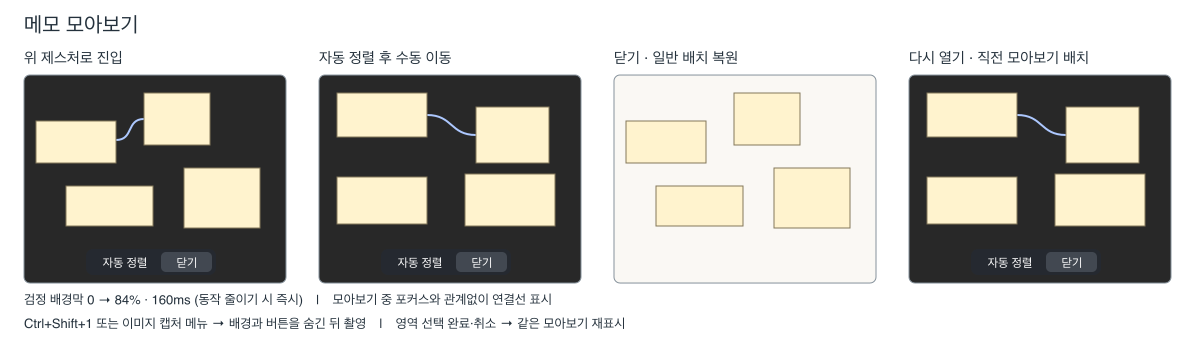
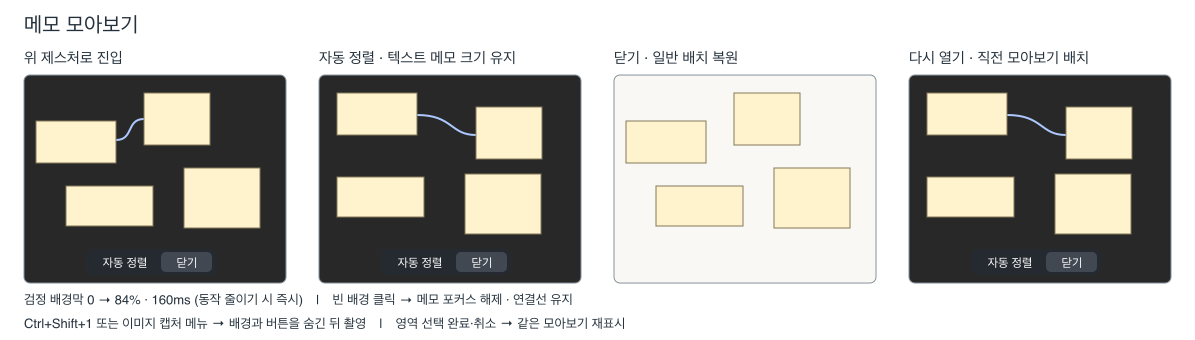
모아보기 자동 정렬에서 메모 크기를 유지하고 배경 클릭 시 포커스 해제

diff --git a/ui/memo-backdrop.js b/ui/memo-backdrop.js
@@ -1,0 +1,7 @@
+document.addEventListener('pointerdown', (event) => {
+  if (event.button !== 0 || !document.documentElement.hasAttribute('data-visible')) return;
+  window.__TAURI__.core.invoke('overview_action', {
+    action: 'clearfocus',
+    generation: window.overviewGeneration,
+  }).catch(console.error);
+});

diff --git a/ui/memo-backdrop.html b/ui/memo-backdrop.html
@@ -3,4 +3,5 @@
 <meta charset="utf-8">
 <title>메모 배경</title>
 <link rel="stylesheet" href="memo-overview.css">
+<script defer src="memo-backdrop.js"></script>
 </html>

diff --git a/src-tauri/src/layout.rs b/src-tauri/src/layout.rs
@@ -442,6 +442,24 @@ pub fn undo_arrangement(window: WebviewWindow) -> Result<(), String> {
     Ok(())
 }
 
+// Share the space evenly unless a live text window requires a larger track.
+fn grid_tracks(minima: &[i64], available: i64, gap: i64) -> Option<Vec<i64>> {
+    let mut remaining = available - gap * (minima.len() as i64 + 1);
+    if minima.iter().sum::<i64>() > remaining {
+        return None;
+    }
+    let mut sizes = minima.to_vec();
+    let mut order: Vec<_> = (0..sizes.len()).collect();
+    order.sort_unstable_by_key(|&i| std::cmp::Reverse(minima[i]));
+    let mut count = sizes.len() as i64;
+    for i in order {
+        sizes[i] = sizes[i].max(remaining / count);
+        remaining -= sizes[i];
+        count -= 1;
+    }
+    Some(sizes)
+}
+
 fn arrangement_rects(
     area: Rect,
     scale: f64,
@@ -449,6 +467,7 @@ fn arrangement_rects(
     specs: &[placement::Item],
     images: &[Option<tauri::LogicalSize<f64>>],
     viewports: &[bool],
+    fixed: &[bool],
 ) -> Result<Vec<Rect>, String> {
     if specs.is_empty() {
         return Ok(Vec::new());
@@ -460,32 +479,43 @@ fn arrangement_rects(
     let rects = if arrangement == Arrangement::Grid {
         let gap = (12.0 * scale / unit(scale)).round() as i64;
         let n = specs.len();
-        let cols = ((n as f64 * area.width as f64 / area.height as f64)
+        let preferred = ((n as f64 * area.width as f64 / area.height as f64)
             .sqrt()
             .round() as usize)
             .clamp(1, n);
-        let rows = n.div_ceil(cols);
-        let cw = (area.width - gap * (cols as i64 + 1)) / cols as i64;
-        let ch = (area.height - gap * (rows as i64 + 1)) / rows as i64;
-        if cw < (144.0 * scale / unit(scale)) as i64
-            || ch
-                < specs
-                    .iter()
-                    .enumerate()
-                    .map(|(i, s)| {
-                        if viewports[i] {
-                            s.min
-                        } else {
-                            s.min.min((48.0 * scale / unit(scale)) as i64)
-                        }
-                    })
-                    .max()
-                    .unwrap()
-        {
-            return Err("메모를 배치할 공간이 부족합니다".into());
-        }
+        let mut options: Vec<_> = (1..=n).collect();
+        options.sort_by_key(|cols| cols.abs_diff(preferred));
+        let min_width = (144.0 * scale / unit(scale)).round() as i64;
+        let min_height = (48.0 * scale / unit(scale)).round() as i64;
+        let (widths, heights) = options
+            .into_iter()
+            .find_map(|cols| {
+                let mut widths = vec![0; cols];
+                let mut heights = vec![0; n.div_ceil(cols)];
+                for (i, s) in specs.iter().enumerate() {
+                    let w = if fixed[i] { s.width } else { min_width };
+                    let h = if fixed[i] || viewports[i] {
+                        s.min
+                    } else {
+                        s.min.min(min_height)
+                    };
+                    widths[i % cols] = widths[i % cols].max(w);
+                    heights[i / cols] = heights[i / cols].max(h);
+                }
+                Some((
+                    grid_tracks(&widths, area.width, gap)?,
+                    grid_tracks(&heights, area.height, gap)?,
+                ))
+            })
+            .ok_or("메모 크기를 유지하며 배치할 공간이 부족합니다")?;
         let mut frames = Vec::new();
-        for i in 0..specs.len() {
+        let mut x = area.x + gap;
+        let mut y = area.y + gap;
+        for i in 0..n {
+            let col = i % widths.len();
+            let row = i / widths.len();
+            let cw = widths[col];
+            let ch = heights[row];
             let max_width = cw.min(specs[i].width);
             let max_height = ch.min(specs[i].max);
             let (width, height) = if let Some(img) = images[i] {
@@ -498,11 +528,16 @@ fn arrangement_rects(
                 (max_width, max_height)
             };
             frames.push(Rect {
-                x: area.x + gap + (i % cols) as i64 * (cw + gap) + (cw - width) / 2,
-                y: area.y + gap + (i / cols) as i64 * (ch + gap) + (ch - height) / 2,
+                x: x + (cw - width) / 2,
+                y: y + (ch - height) / 2,
                 width,
                 height,
             });
+            x += cw + gap;
+            if col + 1 == widths.len() {
+                x = area.x + gap;
+                y += ch + gap;
+            }
         }
         frames
     } else {
@@ -539,7 +574,7 @@ fn planned_frames(
     scale: f64,
     arrangement: Arrangement,
 ) -> Result<Vec<Rect>, String> {
-    let specs: Vec<_> = windows
+    let mut specs: Vec<_> = windows
         .iter()
         .map(|w| arrangement_item(w, area, scale))
         .collect();
@@ -551,7 +586,33 @@ fn planned_frames(
         .iter()
         .map(|w| w.label().starts_with("terminal-") || w.label().starts_with("webview-"))
         .collect();
-    arrangement_rects(area, scale, arrangement, &specs, &images, &viewports)
+    let mut fixed = vec![false; windows.len()];
+    if arrangement == Arrangement::Grid {
+        for (i, w) in windows.iter().enumerate() {
+            if crate::memo_id_from_window(w.label()).is_some()
+                && crate::sizing::image_size(w).is_none()
+            {
+                let frame = overview::current_frame(w)?;
+                let factor = scale / frame.scale / unit(scale);
+                let height = (f64::from(frame.size.height) * factor).round() as i64;
+                specs[i] = placement::Item {
+                    width: (f64::from(frame.size.width) * factor).round() as i64,
+                    min: height,
+                    max: height,
+                };
+                fixed[i] = true;
+            }
+        }
+    }
+    arrangement_rects(
+        area,
+        scale,
+        arrangement,
+        &specs,
+        &images,
+        &viewports,
+        &fixed,
+    )
 }
 
 fn move_hosts(
@@ -761,6 +822,7 @@ mod tests {
                     &specs,
                     &images,
                     &[false, false, true, true],
+                    &[false; 4],
                 )
                 .unwrap();
                 assert_eq!(rects.len(), 4);
@@ -808,7 +870,8 @@ mod tests {
                 arrangement,
                 &specs,
                 &[None; 4],
-                &[true; 4]
+                &[true; 4],
+                &[false; 4]
             )
             .is_err());
         }

diff --git a/src-tauri/src/layout/overview.rs b/src-tauri/src/layout/overview.rs
@@ -359,9 +359,16 @@ fn arrange_session(app: &tauri::AppHandle, session: &Session) -> Result<(), Stri
 }
 
 fn set_backdrop_visible(backdrop: &WebviewWindow, visible: bool) -> Result<(), String> {
+    let generation = backdrop
+        .state::<Overview>()
+        .session
+        .lock()
+        .unwrap()
+        .as_ref()
+        .map_or(0, |s| s.id);
     backdrop
         .eval(format!(
-            "document.documentElement.toggleAttribute('data-visible', {visible})"
+            "window.overviewGeneration = {generation}; document.documentElement.toggleAttribute('data-visible', {visible})"
         ))
         .map_err(error)
 }
@@ -419,6 +426,7 @@ fn close(app: &tauri::AppHandle, session: &Session, animate: bool) -> Result<(),
 #[derive(serde::Deserialize)]
 #[serde(rename_all = "lowercase")]
 pub(crate) enum Action {
+    ClearFocus,
     Arrange,
     Close,
 }
@@ -429,7 +437,12 @@ pub(crate) fn overview_action(
     action: Action,
     generation: u32,
 ) -> Result<(), String> {
-    if window.label() != CONTROLS {
+    let source = if matches!(action, Action::ClearFocus) {
+        BACKDROP
+    } else {
+        CONTROLS
+    };
+    if window.label() != source {
         return Err("메모 모아보기에서만 실행할 수 있습니다".into());
     }
     let app = window.app_handle();
@@ -444,6 +457,14 @@ pub(crate) fn overview_action(
         return Ok(());
     }
     match action {
+        Action::ClearFocus => {
+            if state.current(generation).is_some() && window.is_visible().map_err(error)? {
+                // Keep the backdrop below unpinned memos. The small control window can
+                // receive keyboard focus without raising the full-screen backdrop.
+                utility(app, CONTROLS)?.set_focus().map_err(error)?;
+            }
+            Ok(())
+        }
         Action::Arrange => {
             if let Some(session) = state.current(generation) {
                 arrange_session(app, &session)?;

diff --git a/docs/design-system.md b/docs/design-system.md
@@ -1220,7 +1220,7 @@ macOS가 설정 열기 요청을 받아들이면 현재 화면 하단에 별도 
 
 세 보조키를 모두 놓은 순간의 포인터가 방향 안내의 원점이다. 네 지시자가 그 지점에서 160ms 동안 상하좌우로 뻗는다. 키를 놓은 뒤 40 논리 px 이상, 주축 비율 1.5 이상으로 이동하면 첫 유효 방향을 한 번 실행한다. 위는 메모 모아보기, 왼쪽은 화면 빈자리 배치, 오른쪽은 오른쪽 가장자리에 정렬, 아래는 전체 숨김·복원이다. 투명한 바탕에는 검정 아이콘 네 개만 표시하고 각 실루엣에 약 1.5px의 흰 윤곽을 더해 어두운 배경에서도 구분한다. Esc로 방향 선택을 취소한다. 아이콘의 접근성 이름에 방향별 동작을 표시한다. 아래 방향 아이콘은 다음 동작을 나타낸다. 표시 상태에서는 감은 눈(숨기기), 숨김 상태에서는 뜬 눈(복원)으로 전환하고 대체 텍스트도 동작에 맞춘다. 숨김 애니메이션 중에는 복원을, 복원 애니메이션 중에는 다시 숨기기를 나타내며 동작 줄이기용 정적 자산도 같은 상태를 표시한다. 전체 숨김 상태에서도 같은 안내를 열고 아래 방향을 선택하면 원래 위치로 복원한다. 숨김 상태에서 좌우 또는 위를 선택하면 최종 복원 프레임을 적용한 다음 해당 정렬 또는 보기 진입을 실행한다. 이전 바둑판 제스처의 검증 이력으로, 2026-11-15 macOS 개발 인스턴스 dev-530a292da0ddd86305580ffd(PID 21363)에서 오른쪽에 정렬한 텍스트·이미지 메모 두 개를 숨긴 뒤 합성 위 제스처 한 번으로 두 창의 물리 x좌표가 각각 2856에서 570과 2286으로 바뀌는 것을 확인했다. 방향 선택 시 진한 검정 아이콘들이 160ms 동안 중앙으로 모이며 사라진다. 동작 줄이기 설정에서는 즉시 사라진다. 정렬 대상은 수동 조정한 창을 포함한 보이는 텍스트·이미지/캡처·터미널·웹 메모다. 숨김·최소화·닫힘 및 전체 숨김 처리 중인 창은 포함하지 않으며, 원래 숨긴 메모를 새로 열지 않는다. 일반 메모 열기의 자동 배치와 달리 수동 배치 제외 여부는 검사하지 않는다. 텍스트·캡처는 저장 폴더 생성 시각, 생성형 터미널·웹 ID는 생성 시각을 사용한다. 사용자 지정 웹 ID는 현재 세션의 최초 생성 시각을 유지하고 탐색에 의한 host 교체에도 보존한다. 재시작한 사용자 지정 웹 ID의 과거 생성 시각은 현재 저장 형식에 없으므로 이번 세션 재생성 시각을 사용한다. 시각이 같거나 조회할 수 없으면 label로 안정적으로 순서를 정한다. [실제 안내 SVG](../ui/direction-guide.svg) · [펼쳐진 안내 PNG](design/direction-guide.png).
 
-**메모 모아보기.** 위 제스처로 포인터 화면의 작업 영역에 배경을 표시한다. 보이는 각 메모의 진입 직전 위치·크기는 메모별로 한 번 보관한다. 하단의 **자동 정렬**을 눌렀을 때만 바둑판을 적용하고, 이후 메모를 드래그한 위치는 모아보기 안에서 유지한다. **닫기**는 모아보기에서 보고 있던 위치와 크기를 기억한 뒤 각 메모를 이번 진입 직전의 일반 배치로 복원하고 배경·버튼을 숨긴다. Ctrl+Shift+1 또는 메뉴에서 이미지 캡처를 시작하면 모아보기 여부와 관계없이 현재 보이는 메모창과 보조 창, 모아보기 배경과 하단 버튼을 숨긴다. macOS에서는 WindowServer의 화면상 창 목록에서 대상 창이 모두 사라졌음을 확인한 뒤 촬영한다. 확인이 2초 안에 끝나지 않으면 촬영을 중단하고 창을 복원한다. 영역 선택 중에는 숨김을 유지하고, 완료·취소·실패 시 원래 보이던 창과 모아보기 상태를 복원한다. 원래 숨긴 창은 계속 숨긴다. 새 이미지 메모는 지정한 영역에 배경보다 앞에 표시된다. 앱 실행 중 다시 열면 같은 화면 구성에서 계속 열려 있는 메모는 직전 모아보기의 위치와 크기로 돌아간다. 새로 만들거나 다시 생성한 메모는 현재 배치를 사용하며, 숨기거나 최소화한 창은 열지 않는다. 모니터 구성·작업 영역·배율 또는 모아보기를 여는 화면이 달라지면 현재 배치에서 시작한다. [상태 전이 SVG](design/memo-overview.svg) · [PNG](design/memo-overview.png).
+**메모 모아보기.** 위 제스처로 포인터 화면의 작업 영역에 배경을 표시한다. 보이는 각 메모의 진입 직전 위치·크기는 메모별로 한 번 보관한다. 하단의 **자동 정렬**을 눌렀을 때만 메모를 재배치한다. 텍스트 메모는 정렬 직전의 창 너비와 높이를 유지한다. 빈 배경을 클릭하면 모든 메모의 포커스가 풀리고, 이후 메모를 클릭하면 해당 메모에 다시 포커스가 간다. 정렬 후 메모를 드래그한 위치는 모아보기 안에서 유지한다. **닫기**는 모아보기에서 보고 있던 위치와 크기를 기억한 뒤 각 메모를 이번 진입 직전의 일반 배치로 복원하고 배경·버튼을 숨긴다. Ctrl+Shift+1 또는 메뉴에서 이미지 캡처를 시작하면 모아보기 여부와 관계없이 현재 보이는 메모창과 보조 창, 모아보기 배경과 하단 버튼을 숨긴다. macOS에서는 WindowServer의 화면상 창 목록에서 대상 창이 모두 사라졌음을 확인한 뒤 촬영한다. 확인이 2초 안에 끝나지 않으면 촬영을 중단하고 창을 복원한다. 영역 선택 중에는 숨김을 유지하고, 완료·취소·실패 시 원래 보이던 창과 모아보기 상태를 복원한다. 원래 숨긴 창은 계속 숨긴다. 새 이미지 메모는 지정한 영역에 배경보다 앞에 표시된다. 앱 실행 중 다시 열면 같은 화면 구성에서 계속 열려 있는 메모는 직전 모아보기의 위치와 크기로 돌아간다. 새로 만들거나 다시 생성한 메모는 현재 배치를 사용하며, 숨기거나 최소화한 창은 열지 않는다. 모니터 구성·작업 영역·배율 또는 모아보기를 여는 화면이 달라지면 현재 배치에서 시작한다. [상태 전이 SVG](design/memo-overview.svg) · [PNG](design/memo-overview.png).
 
 모아보기 하단의 닫기와 자동 정렬은 창 포커스와 관계없이 포인터가 올라간 버튼만 강조한다. 모아보기 중에는 각 메모를 완전히 불투명하게 유지한다. 기존 유휴 흐림과 전체 숨김·복원 애니메이션의 투명도보다 이 정책을 우선하며 진입 시 대기 중인 흐림도 해제한다. 진입할 때마다 검정 배경막만 160ms 동안 투명에서 불투명도 84%까지 페이드 인한다. 동작 줄이기 설정에서는 즉시 84%로 표시한다. 메모와 하단 버튼은 전환 중에도 조작할 수 있다. 닫으면 각 창의 위치와 크기를 진입 프레임까지 부드럽게 전환한다. 하단 두 버튼의 너비는 구현 시안의 선택값이다. 핀·접힘·개별 숨김을 바꾸지 않으며, 종전 동작의 실제 앱 검증 범위는 [통합 검증 기록](verification/issue217-integrated.md)을 따른다. 이번 포커스 예외와 배경막 전환은 사용자 요청으로 테스트를 생략했으며 개발 빌드 결과는 별도로 보고한다.
 
